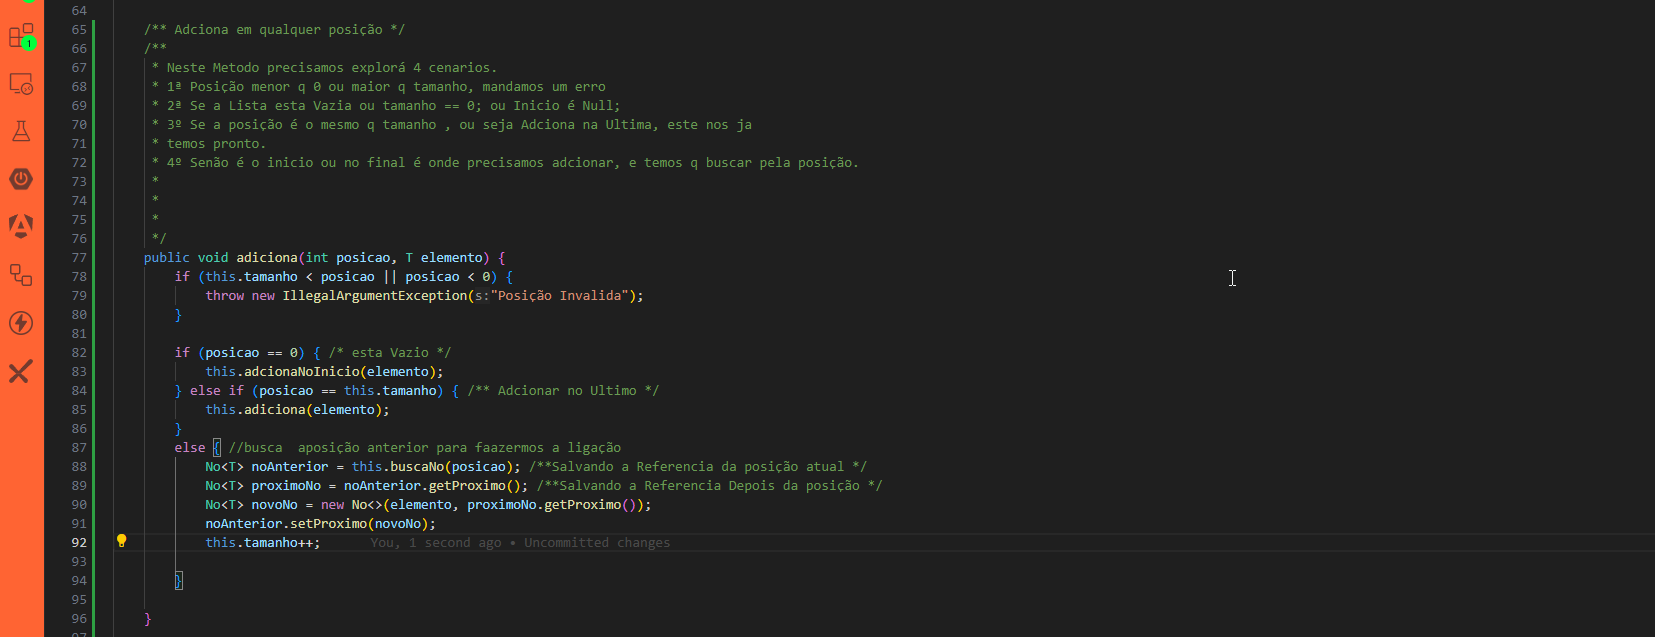
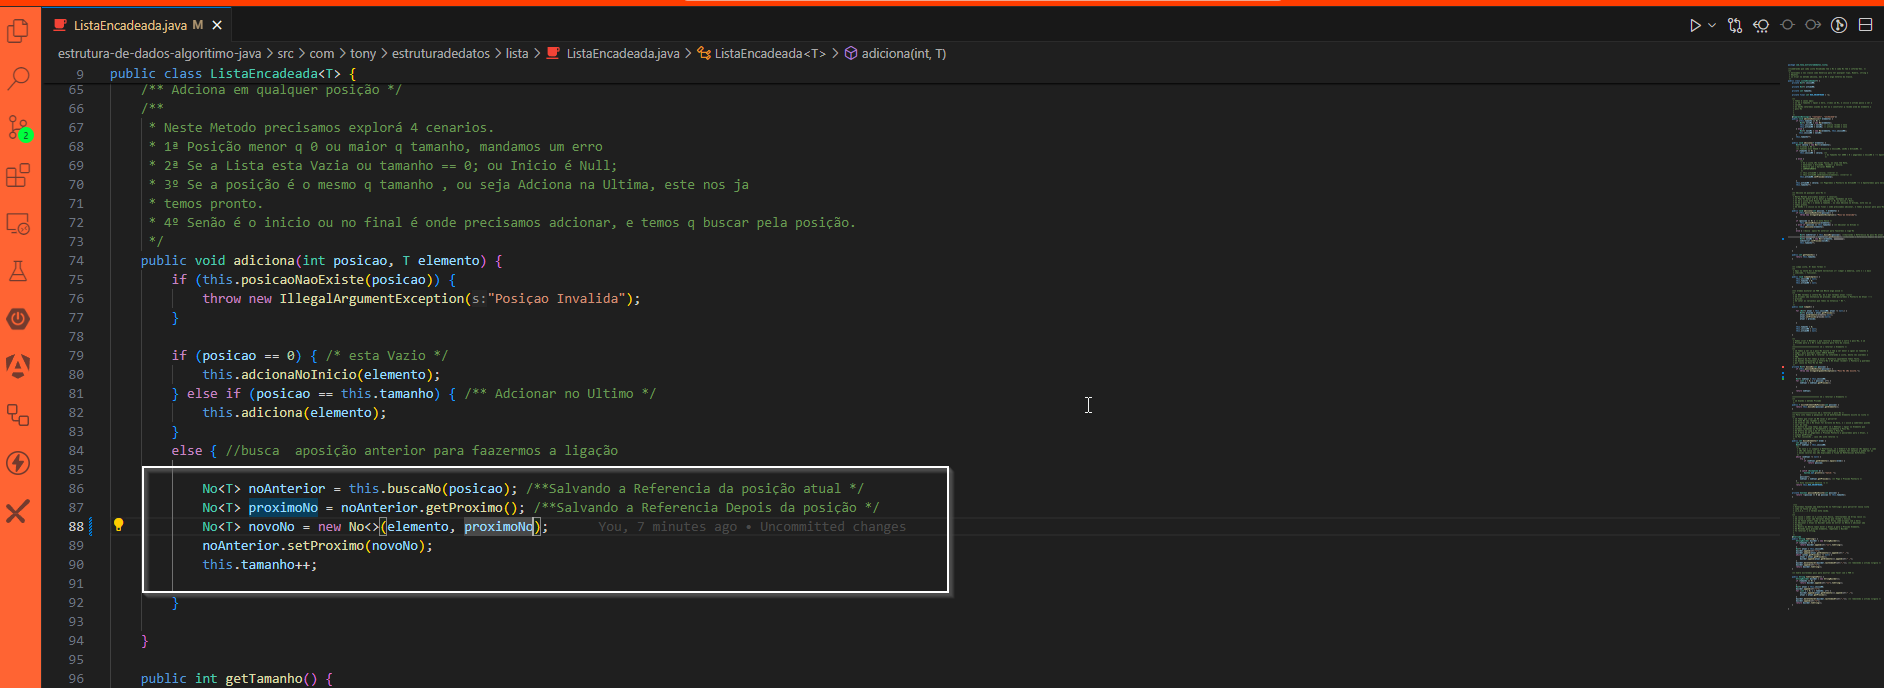
removeInicio

Changed region(s): [[0.0, 0.0, 1.0, 1.0], [0.9553, 0.3878, 1.0, 0.8948], [0.9553, 0.0895, 1.0, 0.3579]]

diff --git a/estrutura-de-dados-algoritimo-java/src/com/tony/estruturadedatos/lista/ListaEncadeada.java b/estrutura-de-dados-algoritimo-java/src/com/tony/estruturadedatos/lista/ListaEncadeada.java
@@ -85,13 +85,39 @@ public class ListaEncadeada<T> {
 
             No<T> noAnterior = this.buscaNo(posicao); /**Salvando a Referencia da posição atual */
             No<T> proximoNo = noAnterior.getProximo(); /**Salvando a Referencia Depois da posição */
-            No<T> novoNo = new No<>(elemento, proximoNo.getProximo());
+            No<T> novoNo = new No<>(elemento, proximoNo);
             noAnterior.setProximo(novoNo);
             this.tamanho++;
 
         }
 
     }
+
+
+    /**Remove do inicio */
+    /**
+     * 1ª se tamanho for == 0, ja elelimina outra possibilidade dotipo tamanho negativo
+     * 2º Retornaremos a Referencia do elemento removido.
+     * 3º Diminir o tamanho.
+     * 4º È Si  o tamanho passou a ser  0, temos q remosver a ref. do ultimo.
+     * Obs: Não preciso por Inicio como Null. Pois se for Zero o tamanho , ele ja vai pegar o GetProximo(null);
+     */
+    public T removeInicio() {
+        if (this.tamanho == 0) {
+            throw new RuntimeException("Lista esta Vazia");
+        }
+        T removido = this.inicioNO.getElemento();
+        this.inicioNO= this.inicioNO.getProximo();
+        this.tamanho--;
+        if (this.tamanho == 0) {
+            this.ultimoNO = null;
+        }
+
+        return removido;
+    }
+
+
+
 
     public int getTamanho() {
         return this.tamanho;
@@ -150,12 +176,12 @@ public class ListaEncadeada<T> {
      * por causa da Posição do FOR.
      */
     private No<T> buscaNo(int posicao) {
-        No<T> noAtual = this.inicioNO;
         if (this.posicaoNaoExiste(posicao)) {
             throw new IllegalArgumentException("Posição não existe.");
-
+            
         }
-
+        
+        No<T> noAtual = this.inicioNO;
         for (int i = 0; i < posicao; i++) {
             noAtual = noAtual.getProximo();
 

diff --git a/estrutura-de-dados-algoritimo-java/src/com/tony/estruturadedatos/lista/teste/Exercicio03.java b/estrutura-de-dados-algoritimo-java/src/com/tony/estruturadedatos/lista/teste/Exercicio03.java
@@ -1,0 +1,30 @@
+package com.tony.estruturadedatos.lista.teste;
+
+import com.tony.estruturadedatos.lista.ListaEncadeada;
+
+public class Exercicio03 {
+    public static void main(String[] args) {
+        RemovePrimeiraPosicao();
+    }
+
+    public static void RemovePrimeiraPosicao() {
+
+        ListaEncadeada<Integer> lista = new ListaEncadeada<>();
+        /** Geraremos uma excessão para vermos caso a Lista esteja Vazia haja erro */
+
+        
+        lista.adiciona(1);
+        lista.adiciona(2);
+        lista.adiciona(3); // nossa saida 1, 2, 4
+        System.out.println("Lista Antes: " + lista);
+        lista.removeInicio();
+        System.out.println("Lista Depois do Remove: " + lista);
+        /**Outra Vez */
+        lista.removeInicio();
+        System.out.println("Lista Depois do Remove: " + lista);
+        /**Ultima Vez */
+        lista.removeInicio();
+        System.out.println("Lista Depois do Remove: " + lista);
+
+    }
+}
